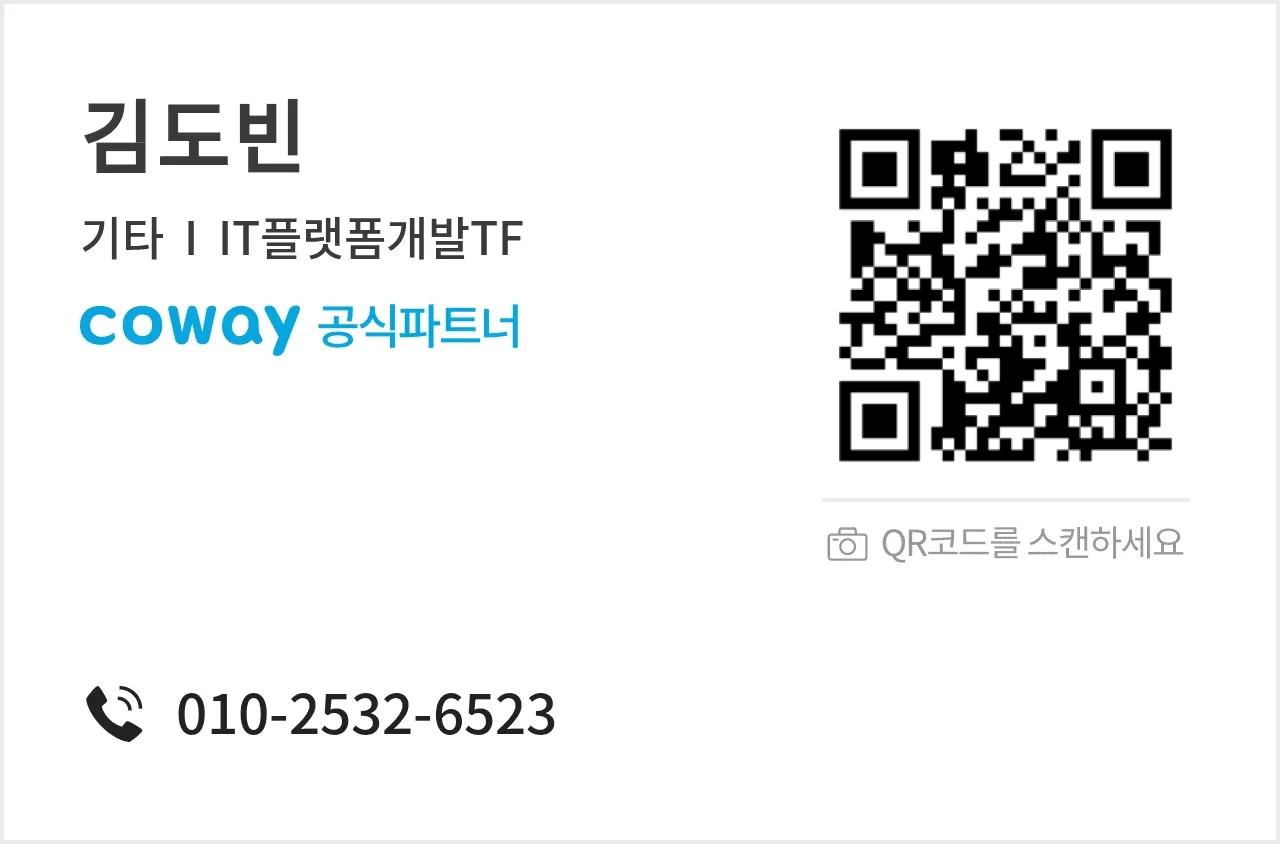
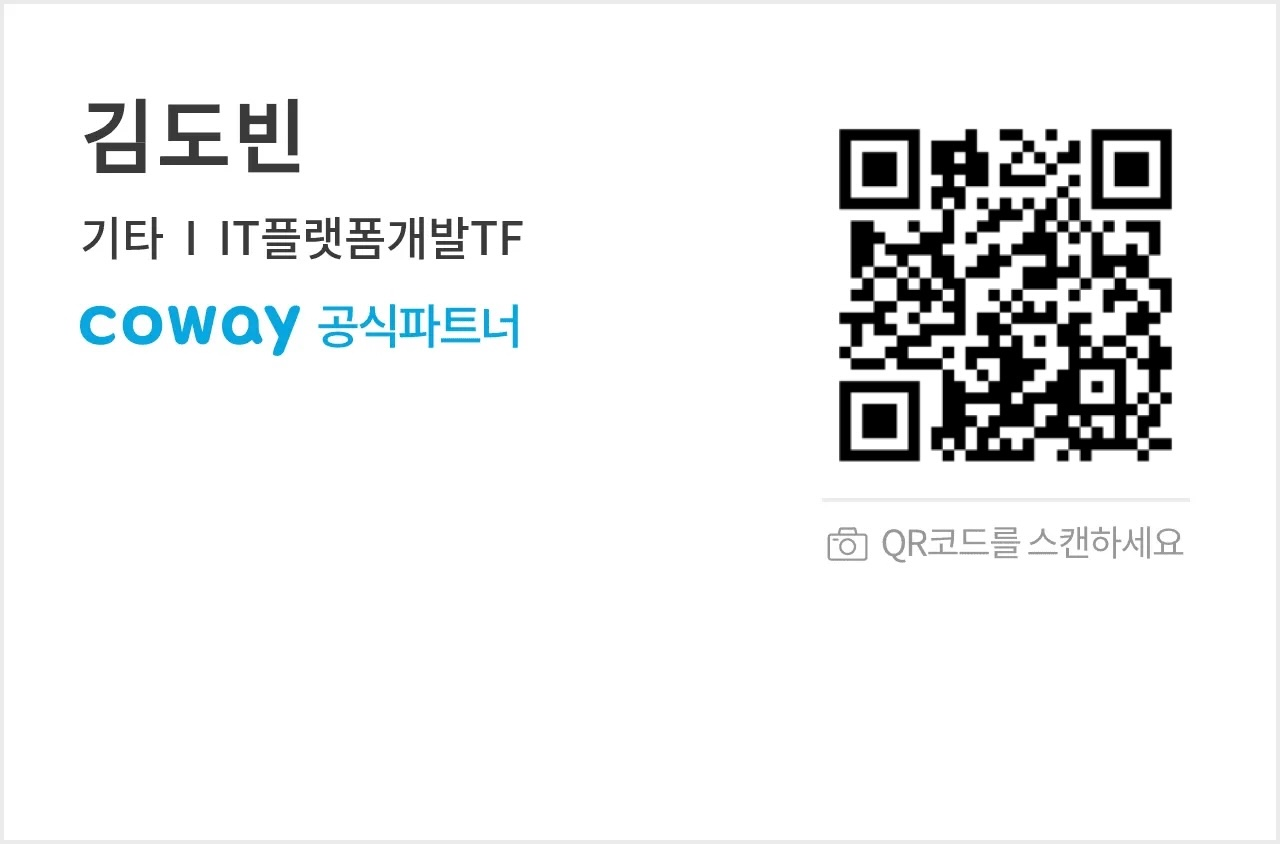
- 사이드 프로젝트 추가

Changed region(s): [[0.0625, 0.8009, 0.4375, 0.8934]]

diff --git a/index.html b/index.html
@@ -487,7 +487,7 @@
 
         <div style="flex:1; min-width:220px;">
             <h1 style="margin:0; font-size:2rem; color:#343a40;">김 도 빈</h1>
-            <p style="margin:4px 0; font-size:1rem; color:#495057;">Backend Engineer · 5년차</p>
+            <p style="margin:4px 0; font-size:1rem; color:#495057;">Backend Engineer · 6년차</p>
             <p style="margin-top:8px; font-size:0.95rem; color:#6c757d; line-height:1.5;">
                 Kotlin(Java)과 Spring Boot 기반의 백엔드 개발자로, 서비스의 운영 효율성과 시스템 안정성을 최우선으로 고려합니다. 대용량 데이터 환경에서의 성능 최적화 및 모니터링 체계 구축에 강점을 보유하고 있으며, 비즈니스 성장에 기여하는 견고한 아키텍처 설계 및 구현을 지향합니다 .
             </p>
@@ -517,6 +517,10 @@
     <h3 style="margin-top:22px; border-bottom: 2px solid #e9ecef; padding-bottom: 5px; margin-bottom: 15px; color:#343a40;">주요 경력 스냅샷</h3>
     <ul style="padding-left:0; list-style:none; color:#495057; font-size:0.95rem; margin-top: 10px;">
         <li style="margin-bottom: 12px; line-height: 1.5;">
+            <strong style="color:#343a40;">라이드(주)</strong> <span style="font-weight: normal; color: #495057;">(2026.01 ~ 재직중)</span>
+            <span style="display: block; margin-top: 2px; margin-left: 15px; color:#6c757d; font-size: 0.9rem; line-height: 1.4;">렌트카 정비 관리·사고 문서 징구·KGM 차량 재고 관리 시스템 설계 및 개발</span>
+        </li>
+        <li style="margin-bottom: 12px; line-height: 1.5;">
             <strong style="color:#343a40;">에이티링크_펫링크</strong> <span style="font-weight: normal; color: #495057;">(2024.09 ~ 2025.09)</span>
             <span style="display: block; margin-top: 2px; margin-left: 15px; color:#6c757d; font-size: 0.9rem; line-height: 1.4;">반려동물 플랫폼 핵심 아키텍처 설계 및 클라우드 인프라 구축에 기여</span>
         </li>
@@ -544,10 +548,10 @@
     </ul>
 
     <div class="contact-info" style="margin-top:12px; font-size:0.9rem; color:#495057; line-height:1.5; display:flex; flex-wrap:wrap; align-items:center;">
-        <span><strong>Phone : </strong> 010-2532-6523</span>
-        <span class="sep" style="margin: 0 8px; color: #adb5bd;">|</span>
-        <span><strong>E-Mail :</strong> zkffhtm6523@gmail.com</span>
-        <span class="sep" style="margin: 0 8px; color: #adb5bd;">|</span>
+<!--        <span><strong>Phone : </strong> 010-2532-6523</span>-->
+<!--        <span class="sep" style="margin: 0 8px; color: #adb5bd;">|</span>-->
+<!--        <span><strong>E-Mail :</strong> zkffhtm6523@gmail.com</span>-->
+<!--        <span class="sep" style="margin: 0 8px; color: #adb5bd;">|</span>-->
         <span>
             <strong>
                 Github : <a href="https://github.com/zkffhtm6523" target="_blank" style="color: #007bff;">github.com/zkffhtm6523</a>
@@ -569,7 +573,7 @@
         아래 표는 포트폴리오에 포함된 프로젝트를 최신 순으로 정리한 핵심 성과 요약입니다.
         각 프로젝트명을 클릭하면 상세 내용 페이지로 이동합니다.
     </p>
-
+    <h4>프로젝트</h4>
     <div class="table-responsive">
         <table class="highlight-table" style="width:100%; border-collapse:collapse;">
             <thead>
@@ -633,6 +637,40 @@
         </table>
     </div>
 
+    </br>
+    <h4>사이드 프로젝트</h4>
+    <div class="table-responsive">
+        <table class="highlight-table" style="width:100%; border-collapse:collapse;">
+            <thead>
+            <tr style="background:#f1f3f5; text-align:left;">
+                <th style="padding:8px; border:1px solid #dee2e6;">프로젝트명</th>
+                <th style="padding:8px; border:1px solid #dee2e6;">프로젝트 기간</th>
+                <th style="padding:8px; border:1px solid #dee2e6;">핵심 내용</th>
+                <th style="padding:8px; border:1px solid #dee2e6;">담당 역할</th>
+            </tr>
+            </thead>
+            <tbody>
+            <tr>
+                <td><a href="#side-project-1">Allwebtoon</a></td>
+                <td>2026.04 ~ 2025.05</td>
+                <td>웹툰 추천 및 정보 사이트</td>
+                <td>전체 아키텍처 설계 및 개발</td>
+            </tr>
+            <tr>
+                <td><a href="#side-project-1">MindMood</a></td>
+                <td>2026.04 ~ 2026.04</td>
+                <td>감정일기 작성 및 감정 현황 파악</td>
+                <td>전체 아키텍처 설계 및 개발</td>
+            </tr>
+            <tr>
+                <td><a href="#side-project-2">PCria</a></td>
+                <td>2026.04 ~ 2026.04</td>
+                <td>PC방 좌석 예약 및 음식 주문 사이트</td>
+                <td>전체 아키텍처 설계 및 개발</td>
+            </tr>
+            </tbody>
+        </table>
+    </div>
     <div class="pg-foot" style="margin-top:16px;">
         <div>핵심 성과 요약</div>
         <div class="page-num-placeholder">페이지 2 / 7</div>
@@ -965,6 +1003,65 @@
     </ul>
     <div class="pg-foot">
         <div>[세컨신드롬] 인프라 구축 및 핵심 비즈니스 기능 안정화</div>
+        <div class="page-num-placeholder">페이지 6 / 7</div>
+    </div>
+</section>
+
+<!--사이드 프로젝트 1-->
+<section class="sheet" id="side-project-1" aria-label="SideProject - 1">
+    <h2>2026 사이드 프로젝트</h2>
+    <p class="muted">기간: 2026.04 ~ 2026.05 | 기술: Claude Code, React, Next.js, Supabase, Vercel</p>
+
+    <h3>AllWebtoon(<a href="https://allwebtoon-v2.vercel.app" target="_blank" style="color: #007bff;">바로가기</a>)</h3>
+    <h4>배경(Why)</h4>
+    <ul>
+        <li>Servlet 기반 레거시 프로젝트를 최신 모던 웹 스택 기반의 아키텍처로 마이그레이션</li>
+        <li>Next.js 및 Supabase 기반 Serverless 환경 구축 및 SSR/ISR 중심의 렌더링 최적화</li>
+        <li>Claude Code 등 AI 엔지니어링 도구를 워크플로우에 통합하여 개발 생산성 극대화</li>
+        <div class="img-placeholder" style="width: 50%;">
+            <a href="resources/2026-allwebtoon-1.png" data-lightbox="2026-allwebtoon-1">
+                <img src="resources/2026-allwebtoon-1.png" alt="allwebtoon site">
+            </a>
+        </div>
+    </ul>
+
+    <h3 style="margin-top: 24px;">MindMood(<a href="https://mindmood.co.kr" target="_blank" style="color: #007bff;">바로가기</a>)</h3>
+    <h4>배경(Why)</h4>
+    <ul>
+        <li>캘린더 기반의 일기 작성 기능과 개인의 감정 통계 및 추이 분석 대시보드를 제공하는 AI 감정 트래킹 웹 서비스</li>
+        <li>Next.js 및 Supabase 기반 Serverless 환경 구축 및 SSR/ISR 중심의 렌더링 최적화</li>
+        <li>Claude Code 등 AI 엔지니어링 도구를 워크플로우에 통합하여 개발 생산성 극대화</li>
+        <div class="img-placeholder" style="width: 50%;">
+            <a href="resources/2026-mindmood-1.png" data-lightbox="2026-mindmood-1">
+                <img src="resources/2026-mindmood-1.png" alt="mindmood site">
+            </a>
+        </div>
+    </ul>
+    <div class="pg-foot">
+        <div>사이드 프로젝트</div>
+        <div class="page-num-placeholder">페이지 6 / 7</div>
+    </div>
+</section>
+<!--사이드 프로젝트 2-->
+<section class="sheet" id="side-project-2" aria-label="SideProject - 2">
+    <h2>2026 사이드 프로젝트</h2>
+    <p class="muted">기간: 2026.04 ~ 2026.05 | 기술: Claude Code, React, Next.js, Supabase, Vercel</p>
+
+    <h3>PCria(<a href="https://pcria-v3.vercel.app" target="_blank" style="color: #007bff;">바로가기</a>)</h3>
+    <h4>배경(Why)</h4>
+    <ul>
+        <li>실시간 좌석 예약, 시간 충전 및 보유 시간 연동 음식 주문 기능을 제공하는 PC방 통합 관리 플랫폼 웹 서비스</li>
+        <li>Spring Framework 기반 레거시 프로젝트를 최신 모던 웹 스택 기반의 아키텍처로 마이그레이션</li>
+        <li>Next.js 및 Supabase 기반 Serverless 환경 구축 및 SSR/ISR 중심의 렌더링 최적화</li>
+        <li>Claude Code 등 AI 엔지니어링 도구를 워크플로우에 통합하여 개발 생산성 극대화</li>
+        <div class="img-placeholder" style="width: 50%;">
+            <a href="resources/2026-pcria-1.png" data-lightbox="2026-pcria-1">
+                <img src="resources/2026-pcria-1.png" alt="pcria site">
+            </a>
+        </div>
+    </ul>
+    <div class="pg-foot">
+        <div>사이드 프로젝트</div>
         <div class="page-num-placeholder">페이지 6 / 7</div>
     </div>
 </section>
